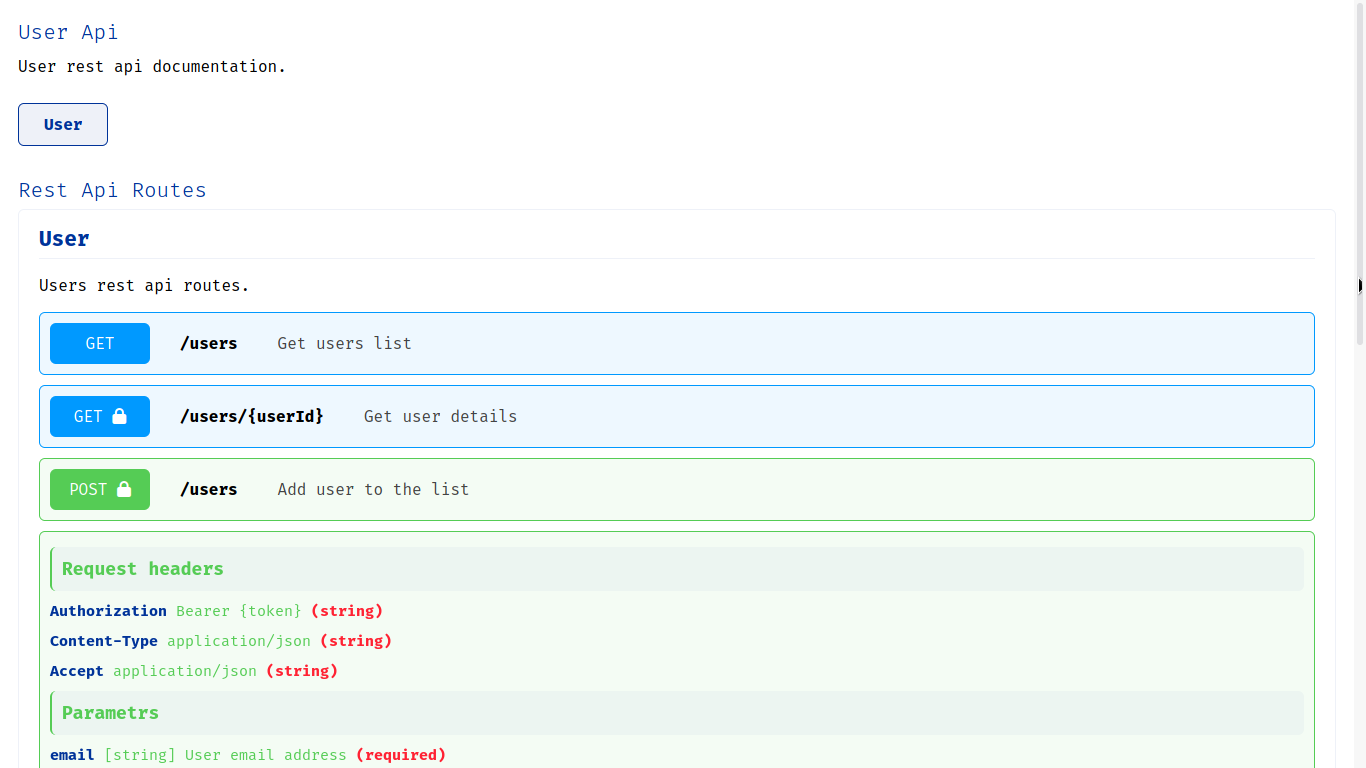
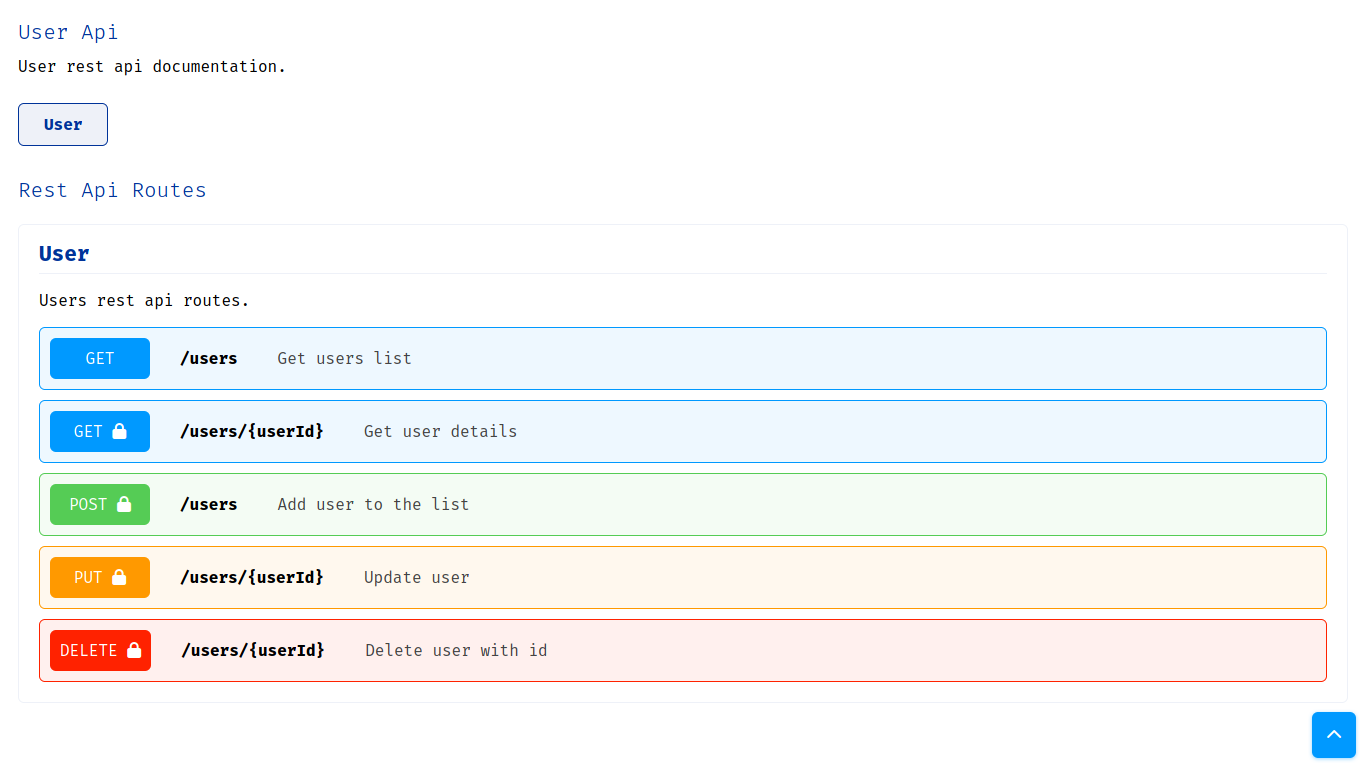
RestDoc
Laravel Rest Api documentation generator for PHP projects.

diff --git a/resources/views/main.blade.php b/resources/views/main.blade.php
@@ -17,7 +17,7 @@
 		.box {float: left; width: 100%; padding: 10px; box-sizing: border-box;}
 		a {text-decoration: none; color: #fff; color: #003399; border:  1px solid #003399; background: #00339911;}
 		.title {float: left; width: 100%; color: #003399; font-size: 21px; font-weight: 300; margin-bottom: 10px;}
-		.title-rest {float: left; width: 100%; color: #003399; font-size: 21px; font-weight: 300; margin: 20px 0px 5px 0px;}
+		.title-rest {float: left; width: 100%; color: #003399; font-size: 21px; font-weight: 300; margin: 20px 0px}
 		.menu {float: left; width: 100%;}
 		.menu__link {float: left; width: auto; margin: 10px 10px 10px 0px; padding: 10px 25px; font-weight: 900; border-radius: 6px;}
 
@@ -43,24 +43,30 @@
 		.open .part {border-radius: 6px 6px 0px 0px;}
 		.row__details {display: none; float: left; width: 100%; margin: 0px 0px 20px 0px; padding: 10px; border-radius: 6px;}
 		.open + .row__details {display: inherit; font-size: 15px;}
-		.row__details_title {font-size: 18px; font-weight: 700; float: left; width: 100%; padding: 10px; margin: 5px 0px; background: #00339909; border-radius: 6px;}
-		.param__bg {float: left; width: 100%; padding: 10px; margin: 5px 0px; background: #fff; color: #003399; border-radius: 6px;}
+		.row__details_title {font-size: 18px; font-weight: 700; float: left; width: 100%; padding: 10px; margin: 5px 0px; border-radius: 6px;}
+		.param__bg {float: left; width: 100%; padding: 5px 0px; color: #003399; border-radius: 6px;}
 		.param__details {float: left; width: 100%; padding: 5px 0px;}
 		.bold {color: #039 !important; font-weight: 700}
 		.bold-red {color: #f23 !important; font-weight: 700}
 		.bold__title {float: left; width: 100%; padding: 5px 0px; font-weight: 600; font-size: 14px;}
-		.header {display: flex; float: left; width: 100%; margin-bottom: 5px; padding: 5px; background: #fff; color: #003399; border-radius: 6px;}
-		.header__name {font-weight: 700; padding: 5px;}
-		.header__desc {font-weight: 400; padding: 5px;}
-		.header__type {font-weight: 700; padding: 5px;}
+		.header {display: flex; float: left; width: 100%; padding: 5px 0px}
+		.header__name {font-weight: 700; padding-right: 5px; color: #003399}
+		.header__desc {font-weight: 400; padding-right: 5px;}
+		.header__type {font-weight: 700; padding-right: 5px;}
 
-		.border-get {border-left: 2px solid #0099ff;}
-		.border-post {border-left: 2px solid #55cc55;}
-		.border-put {border-left: 2px solid #ff9900;}
-		.border-patch {border-left: 2px solid #ff9900;}
-		.border-delete {border-left: 2px solid #ff2200;}
+		.border-get {border-bottom: 1px solid #0099ff;}
+		.border-post {border-bottom: 1px solid #55cc55;}
+		.border-put {border-bottom: 1px solid #ff9900;}
+		.border-patch {border-bottom: 1px solid #ff9900;}
+		.border-delete {border-bottom: 1px solid #ff2200;}
+
+		.tab {float: left; width: 100%; padding-left: 35px !important; box-sizing: border-box;}
 
 		i {padding: 0px;}
+
+		@media all and (max-width: 480px) {
+			* { font-size: 14px !important; }
+		}
 	</style>
 
 	<script type="text/javascript">
@@ -114,31 +120,35 @@
 									@endforeach
 								@endif
 
-								<div class="row__details_title border-{{ strtolower($m['method']->label()) }}">Parametrs</div>
+								<div class="row__details_title border-{{ strtolower($m['method']->label()) }}">Parameters</div>
 								<div>
 									@foreach ($m['params'] as $p)
 										<div class="param__details">
-											<span class="bold"> {{ $p['name'] }} </span> [{{ $p['type'] }}] {{ $p['desc'] }}
+											<span class="bold"> {{ $p['name'] }} </span>
+											<span class="bold"> [{{ $p['type'] }}] </span>
+											{{ $p['desc'] }}
 
 											@if($p['required'] == true)
 												<span class="bold-red">(required)</span>
 											@endif
 
-											@if(!empty($p['default']))
-												<div class="bold__title">Default:</div>
-												<div class="param__bg">
-													{{ $p['default'] }}
-												</div>
-											@endif
+											<div class="tab">
+												@if(!empty($p['default']))
+													<div class="bold__title">Default:</div>
+													<div class="param__bg">
+														{{ $p['default'] }}
+													</div>
+												@endif
 
-											@if(!empty($p['sample']))
-												<div class="bold__title">Sample:</div>
-												<div class="param__bg">
-													<code>
-													{{ $p['sample'] }}
-													</code>
-												</div>
-											@endif
+												@if(!empty($p['sample']))
+													<div class="bold__title">Sample:</div>
+													<div class="param__bg">
+														<code>
+														{{ $p['sample'] }}
+														</code>
+													</div>
+												@endif
+											</div>
 										</div>
 									@endforeach
 								</div>
@@ -147,35 +157,36 @@
 								<div>
 									@foreach ($m['responses'] as $p)
 										<div class="param__details">
-											<span class="bold"> {{ $p['code'] }} </span>
-											{{ $p['desc'] }}
+											<span class="bold"> {{ $p['code'] }} </span>  {{ $p['desc'] }}
 
-											@if(!empty($p['sample']))
-												<div class="bold__title">Sample:</div>
-												<div class="param__bg">
-													<code>
-													{{ $p['sample'] }}
-													</code>
-												</div>
-											@endif
-
-											@if(!empty($p['model']))
-												<div class="bold__title">Model:</div>
-												<div class="param__bg">
-													{{ $p['model'] }}
-												</div>
-											@endif
-
-											@if(!empty($p['headers']))
-												<div class="bold__title">Headers:</div>
-												@foreach ($p['headers'] as $h)
-													<div class="header">
-														<div class="header__name">{{ $h['name'] }}</div>
-														<div class="header__desc">{{ $h['desc'] }}</div>
-														<div class="header__type">({{ $h['type'] }})</div>
+											<div class="tab">
+												@if(!empty($p['sample']))
+													<div class="bold__title">Sample:</div>
+													<div class="param__bg">
+														<code>
+														{{ $p['sample'] }}
+														</code>
 													</div>
-												@endforeach
-											@endif
+												@endif
+
+												@if(!empty($p['model']))
+													<div class="bold__title">Model:</div>
+													<div class="param__bg">
+														{{ $p['model'] }}
+													</div>
+												@endif
+
+												@if(!empty($p['headers']))
+													<div class="bold__title">Headers:</div>
+													@foreach ($p['headers'] as $h)
+														<div class="header">
+															<div class="header__name">{{ $h['name'] }}</div>
+															<div class="header__desc">{{ $h['desc'] }}</div>
+															<div class="header__type">({{ $h['type'] }})</div>
+														</div>
+													@endforeach
+												@endif
+											</div>
 										</div>
 									@endforeach
 								</div>
